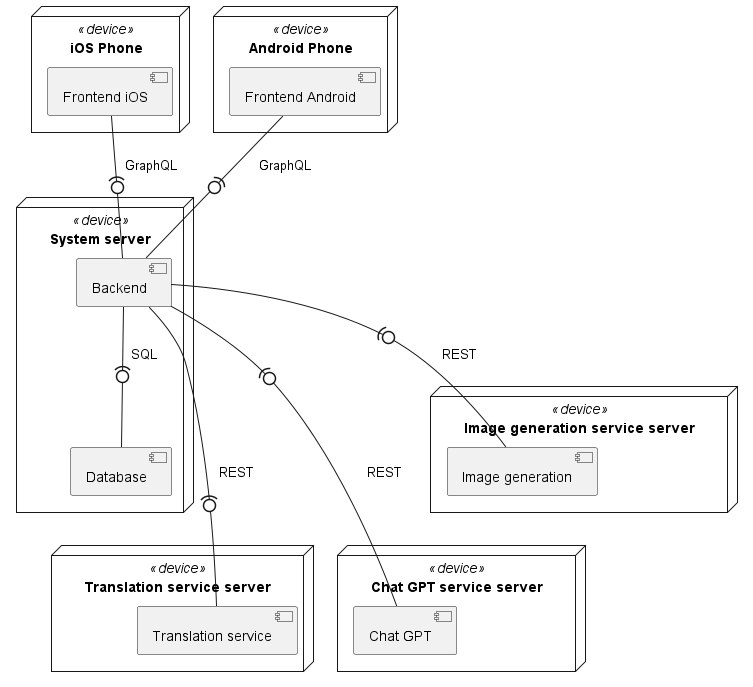
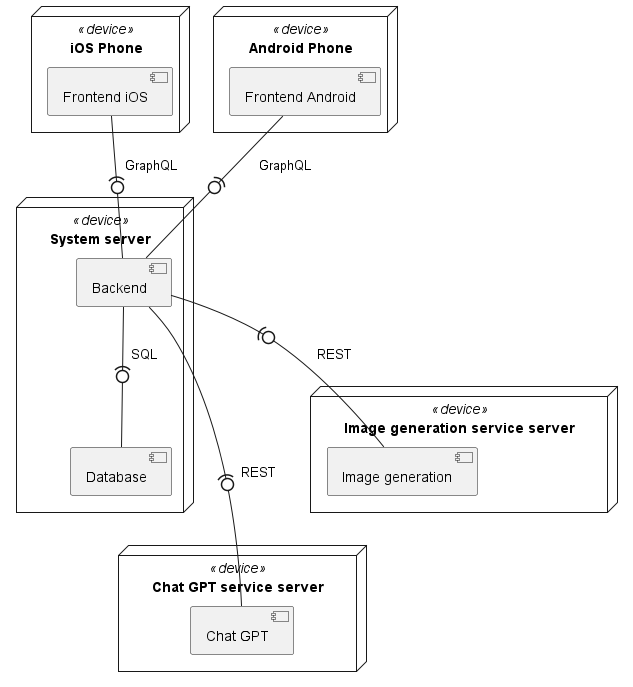
#6 Replace translator with Recommendation module

diff --git a/Components.md b/Components.md
@@ -11,9 +11,6 @@ node "System server" <<device>> {
     component "Backend" as backend
     component "Database" as database
 }
-node "Translation service server" <<device>> {
-    component "Translation service" as translator
-}
 node "Chat GPT service server" <<device>> {
     component "Chat GPT" as chatGpt
 }
@@ -25,7 +22,6 @@ frontendAndroid -(0- backend: GraphQL
 frontendIos -(0- backend: GraphQL
 
 backend -(0- database :SQL
-backend --(0- translator :REST
 backend --(0- chatGpt: REST
 backend -(0- imageGeneration: REST
 @enduml
@@ -45,6 +41,7 @@ backend -(0- imageGeneration: REST
 !include DEVICONS2/mysql.puml
 !include DEVICONS2/kotlin.puml
 !include DEVICONS2/swift.puml
+!include DEVICONS2/python.puml
 !include FONTAWESOME/users.puml
 !includeurl ICONURL/font-awesome/server.puml
 
@@ -57,11 +54,11 @@ System_Boundary(c1, "Application") {
     Container(frontendIos, "frontend", "ios", "iOS frontend", $sprite="swift")
     Container(backend, "Backend", "Java + Spring", "Business logic", $sprite="spring")
     ContainerDb(db, "Database", "SQL", "Data storing", $sprite="mysql")
+    Container(recomendationApi, "Recomendation module", "Python + Flask", "Recomendation module", $sprite="python")
 }
 
 Container_Ext(imageGenerationApi, "Image generation API", $sprite="server")
 Container_Ext(chatGptApi, "Chat GPT API", $sprite="server")
-Container_Ext(translatorApi, "Translator API", $sprite="server")
 
 Rel(user, frontendAndroid, "Uses", "https")
 Rel(user, frontendIos, "Uses", "https")
@@ -69,11 +66,11 @@ Rel(frontendAndroid, backend, "API calls", "graphql")
 Rel(frontendIos, backend, "API calls", "graphql")
 Rel_R(db, backend, "Reads")
 Rel(backend, db, "Writes")
+Rel(backend, recomendationApi, "API calls", "REST")
 
 Rel_L(backend, imageGenerationApi, "API calls", "REST")
 Rel_R(backend, chatGptApi, "API calls", "REST")
-Rel(backend, translatorApi, "API calls", "REST")
 
 @enduml
 ```
-![](media/contextDiagram.png)
+![](media/containerDiagram.png)

diff --git a/SystemRequirements.md b/SystemRequirements.md
@@ -25,8 +25,8 @@
     - add recipe to favourites
     - edit profile
     - create recipe
+- Recipes recommendations
 - Integrations:
-    - Translator
     - Chat GPT – resume of your search parameters and results
     - Image generation - https://github.com/lucidrains/big-sleep or https://deepai.org/
 
@@ -91,6 +91,8 @@ rectangle Application {
     usecase "Display favourite recipes" as favourite
     usecase "Add recipe to favourites" as addFavourite
     
+    usecase "Display recommended recipes" as recommended
+    
     usecase "Display saved searches" as savedSearches
     usecase "Save search" as saveSearch
     
@@ -113,6 +115,7 @@ loggedUser --> logout
 loggedUser --> search
 loggedUser --> view
 loggedUser --> favourite
+loggedUser --> recommended
 loggedUser --> savedSearches
 loggedUser --> editProfile
 loggedUser --> recentlyViewed
